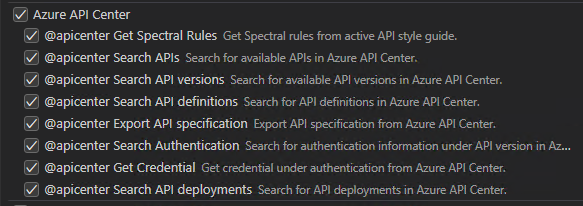
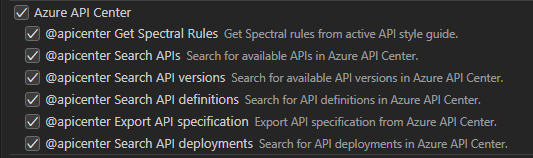
docs: update to 5 tools

diff --git a/PRERELEASE.md b/PRERELEASE.md
@@ -4,7 +4,7 @@
 > Note: This changelog only includes the changes for the pre-release versions of Azure API Center for Visual Studio Code. For the changelog of stable versions, please refer to the [Changelog of Azure API Center for Visual Studio Code](https://github.com/microsoft/vscode-azureapicenter/blob/main/CHANGELOG.md).
 
 ### May 14, 2025
-* **Language Model Tools for API Center Data Plane APIs**: Added 7 language model tools to help developers easily discover and consume APIs registered in API Center with GitHub Copilot agent mode.
+* **Language Model Tools for API Center Data Plane APIs**: Added 5 language model tools to help developers easily discover and consume APIs registered in API Center with GitHub Copilot agent mode.
 
 ### April 24, 2025
 * **Generate OpenAPI Specification**: Added functionality to generate an OpenAPI specification from the entire code project.
